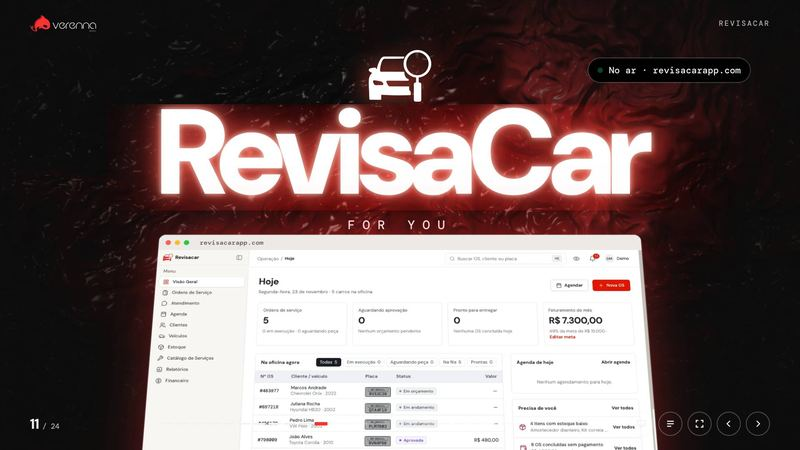
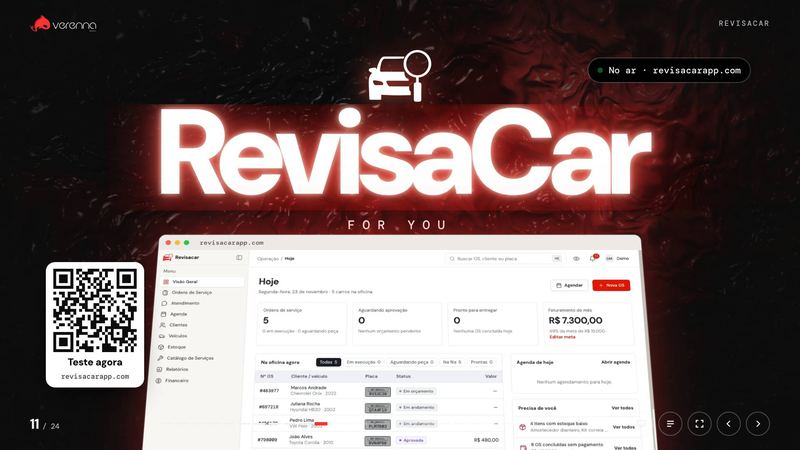
QR code de demo e sinalização honesta do visual novo do app do cliente

diff --git a/index.html b/index.html
@@ -308,6 +308,10 @@ button{font:inherit;color:inherit;background:none;border:0;cursor:pointer}
 .s-rev .stagewin{position:absolute;left:50%;top:600px;width:1160px;margin-left:-580px;perspective:2200px}
 .s-rev .stagewin .win{position:relative;transform:rotateX(58deg) translateY(220px) scale(.9);transform-origin:50% 0;transition:transform 1.8s var(--out);box-shadow:0 0 0 2px rgba(255,255,255,.15),0 -30px 120px -20px rgba(255,50,49,.5)}
 .s-rev.s1 .stagewin .win{transform:rotateX(16deg) translateY(-40px)}
+.s-rev .demoqr{position:absolute;left:110px;bottom:150px;width:236px;background:#fff;color:#0D0D0D;border-radius:22px;padding:16px;display:grid;gap:8px;justify-items:center;text-align:center;z-index:4;box-shadow:0 30px 60px -20px rgba(0,0,0,.7)}
+.s-rev .demoqr img{width:200px;height:200px}
+.s-rev .demoqr b{font-size:24px;font-weight:850;letter-spacing:-.02em}
+.s-rev .demoqr span{font:500 17px var(--mono);color:#4a4242}
 .s-rev .live{position:absolute;right:120px;top:140px;display:flex;gap:14px;align-items:center;font:500 22px var(--mono);background:#000;padding:14px 22px;border-radius:99px;box-shadow:0 0 0 2px rgba(255,255,255,.2)}
 .s-rev .live i{width:13px;height:13px;border-radius:50%;background:#2FD36F;animation:blink 1.6s infinite}
 @keyframes blink{50%{opacity:.3}}
@@ -372,6 +376,8 @@ button{font:inherit;color:inherit;background:none;border:0;cursor:pointer}
 .s-cli .phone.a{left:10px;top:90px;width:300px;transform:rotate(-8deg) scale(.86)}
 .s-cli .phone.b{left:270px;top:0;z-index:2;width:300px}
 .s-cli .phone.c{left:530px;top:90px;width:300px;transform:rotate(8deg) scale(.86)}
+.s-cli .wip{justify-self:start;font:500 20px var(--mono);letter-spacing:.06em;background:#0D0D0D;color:#fff;padding:10px 16px;border-radius:99px;display:flex;gap:10px;align-items:center}
+.s-cli .wip::before{content:"";width:10px;height:10px;border-radius:50%;background:#E8A317}
 .s-cli .tabs{position:absolute;left:960px;width:840px;bottom:130px;display:flex;flex-wrap:wrap;gap:12px;justify-content:center}
 .s-cli .tabs button{font:600 22px var(--sans);padding:12px 22px;border-radius:99px;box-shadow:inset 0 0 0 2px rgba(255,255,255,.55);transition:all .3s}
 .s-cli .tabs button.act{background:#fff;color:var(--coral);box-shadow:none}
@@ -649,6 +655,7 @@ button{font:inherit;color:inherit;background:none;border:0;cursor:pointer}
   <h2 class="word glow"><span class="ln"><span style="--d:300">RevisaCar</span></span></h2>
   <p class="fy rv" style="--d:700">For you</p>
   <div class="stagewin"><div class="win"><div class="bar"><i></i><i></i><i></i><span>revisacarapp.com</span></div><div class="scr"><img src="img/v2-hoje.webp" alt="Tela Hoje do RevisaCar"></div></div></div>
+  <div class="demoqr" data-at="1"><img src="img/qr-revisacar.png" alt="QR code para revisacarapp.com"><b>Teste agora</b><span>revisacarapp.com</span></div>
 </section>
 
 <!-- 11 ANATOMIA -->
@@ -704,12 +711,12 @@ button{font:inherit;color:inherit;background:none;border:0;cursor:pointer}
 
 <!-- 15 APP DO CLIENTE -->
 <section class="scene red s-cli" data-title="App do cliente" data-chap="RevisaCar">
-  <div class="head"><p class="kick rv">App do cliente · PWA</p><h2 class="h2"><span class="ln"><span>E o dono do carro</span></span><span class="ln"><span style="--d:100;color:var(--ink)">acompanha tudo.</span></span></h2><p class="lede rv" style="--d:300">Abre no navegador e instala no celular, sem loja de aplicativos.</p></div>
+  <div class="head"><p class="kick rv">App do cliente · PWA</p><h2 class="h2"><span class="ln"><span>E o dono do carro</span></span><span class="ln"><span style="--d:100;color:var(--ink)">acompanha tudo.</span></span></h2><p class="lede rv" style="--d:300">Abre no navegador e instala no celular, sem loja de aplicativos.</p><span class="wip rv" style="--d:400">Visual novo em revisão, antes de ir ao ar</span></div>
   <div class="feats rv" style="--d:450">
     <div><b>Orçamentos</b><span>aprova ou recusa, com comentário</span></div>
     <div><b>Agendamento</b><span>serviço, data e horário em 4 passos</span></div>
     <div><b>Saúde do carro</b><span>manutenções e lembretes por quilometragem</span></div>
-    <div><b>Garantia digital</b><span>histórico de cada serviço feito</span></div>
+    <div><b>Histórico</b><span>serviços feitos, com busca e detalhe</span></div>
   </div>
   <div class="phones">
     <div class="phone a rv" style="--d:300"><div class="s"><img src="img/cli-saude.webp" alt="Saúde do veículo"></div></div>
@@ -1095,7 +1102,7 @@ const NOTES={
 's-os':['O caminho de uma OS em 5 passos: abrir, ficha de entrada, fotos obrigatórias, inspeção e quadro de atendimento.','Depois de concluída, a OS não pode mais ser alterada: integridade dos dados.'],
 's-ins':['Checklist por sistema do carro: motor, frenagem, suspensão, elétrico, transmissão, pneus, carroceria, interior e personalizada.','Cada item: OK, Atenção, Crítico ou N/A. O encerramento tem assinatura e gera o PDF.'],
 's-mod':['Dez módulos integrados.','Cliente se liga a veículo, agendamento e OS; a OS alimenta o painel e o financeiro. (passe o mouse na lista)'],
-'s-cli':['O dono do carro também tem o app: é um PWA, instala sem loja.','Aprova ou recusa orçamento, agenda, acompanha a saúde do carro e a garantia.','Prioridade do projeto: aumentar a confiança do cliente.'],
+'s-cli':['O dono do carro também tem o app: é um PWA, instala sem loja.','As telas mostram o visual novo, que ainda está em revisão; as funções de orçamento e convite de oficina já estão no código principal.','Aprova ou recusa orçamento, agenda em 4 passos, acompanha manutenções e o histórico.','Prioridade do projeto: aumentar a confiança do cliente.'],
 's-cmp':['Arraste a alça ao vivo: antes, papel e mensagem solta; depois, a oficina num lugar só.'],
 's-arch':['Três camadas: React com Vite e TypeScript; API em Django REST; PostgreSQL no Supabase; publicado no Render a partir do GitHub.','Acesso por papel (RBAC), login separado de dono e funcionário, LGPD e escapeHtml() no PDF.'],
 's-qa':['28 casos de teste executados, todos aprovados, de 39 planejados.','3 problemas achados em testes exploratórios, 2 já corrigidos. Trabalhamos com Scrum.'],
